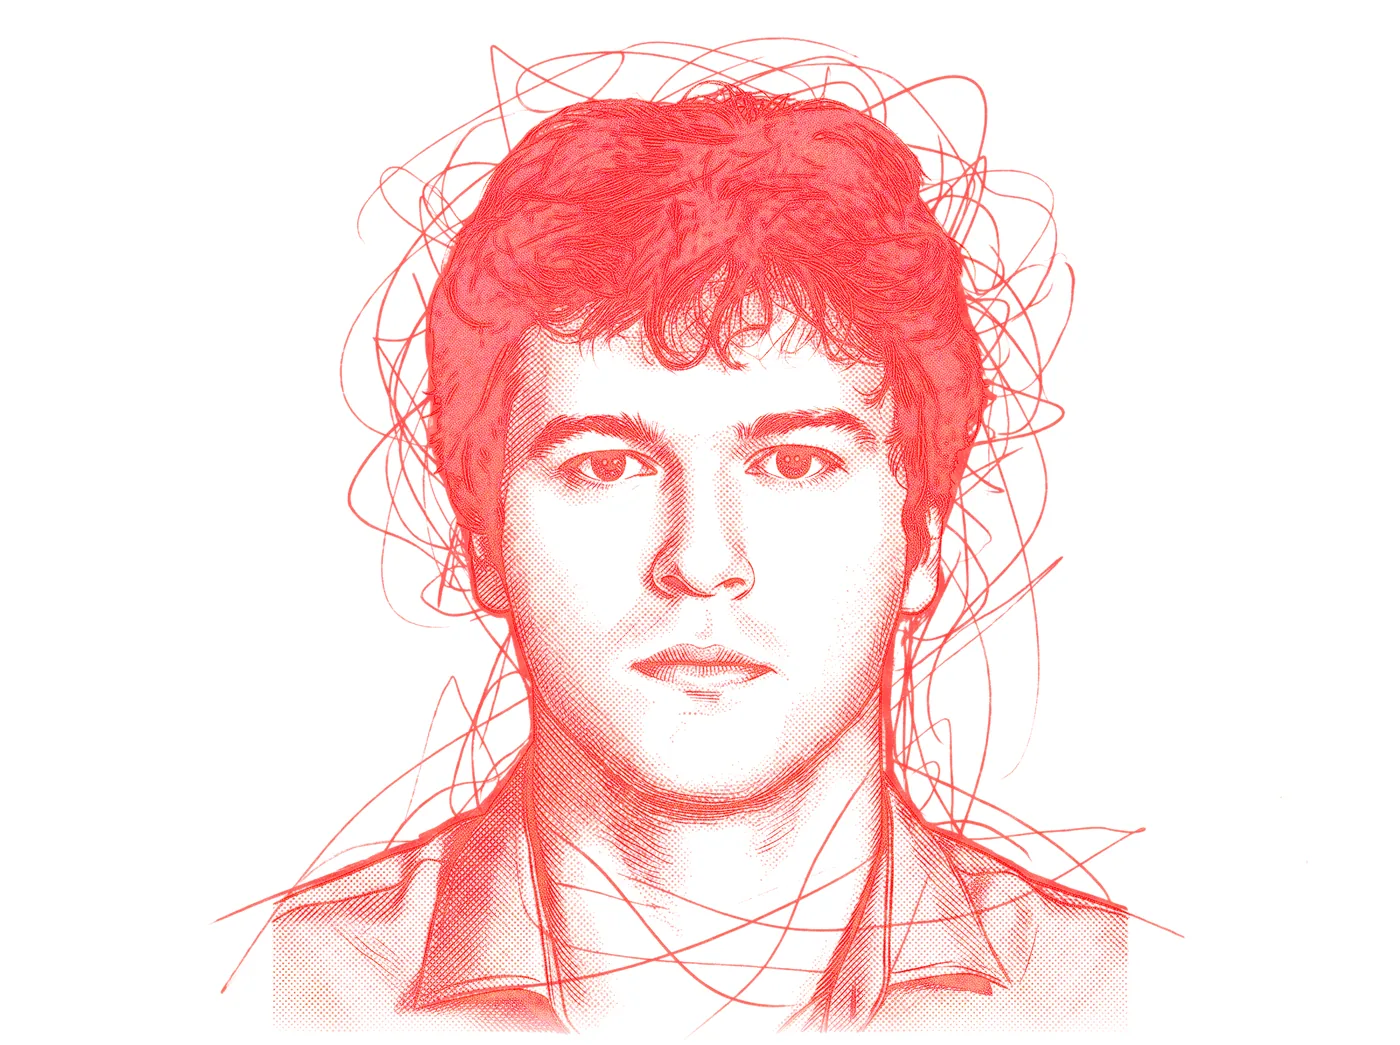
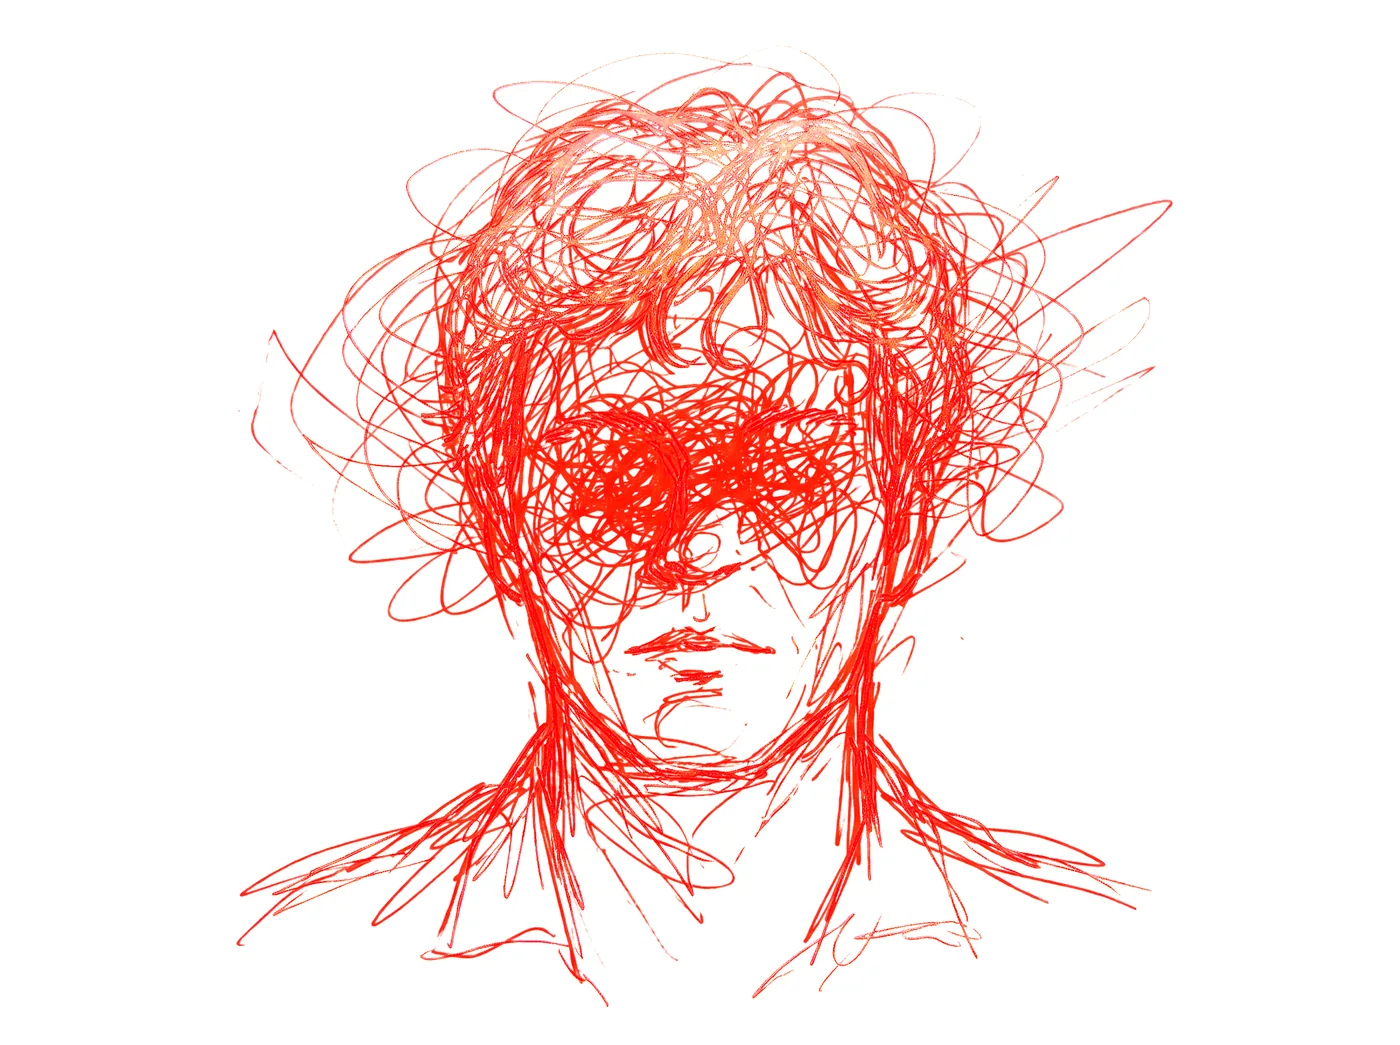
feat: make the about portrait abstract (#12)
Regenerated from the same photo as a loose scribble portrait; the face is half covered by red scribbles so it reads as a sketch rather than a likeness.

Changed region(s): [[0.1536, 0.0306, 0.8293, 1.0], [0.7986, 0.1837, 0.8293, 0.245], [0.7986, 0.3368, 0.8293, 0.3675]]

diff --git a/assets/print/SOURCES.md b/assets/print/SOURCES.md
@@ -21,7 +21,7 @@ Every prompt ended with this shared style block:
 | koku    | faceted perfume bottle, vapour breaking into ranked dots, rose / fig / bergamot sprigs |
 | cv      | paper letters and envelopes flying in an arc like migrating birds |
 | medical | one anatomical heart engraving with a regression curve and data points, stethoscope |
-| portrait | Berk's own ID photo uploaded as reference; head-and-shoulders engraving with chaotic red line scribbles around the hair, 4:3 |
+| portrait | Berk's own ID photo uploaded as reference; abstract scribble portrait, face half buried under a red scribble knot, broken black and red lines, 4:3 |
 | contact | paper airplane folded from a letter, dotted looping trail |
 
 `sep.py` splits each PNG into a black-ink layer (`*-k.webp`) and a red-ink layer
